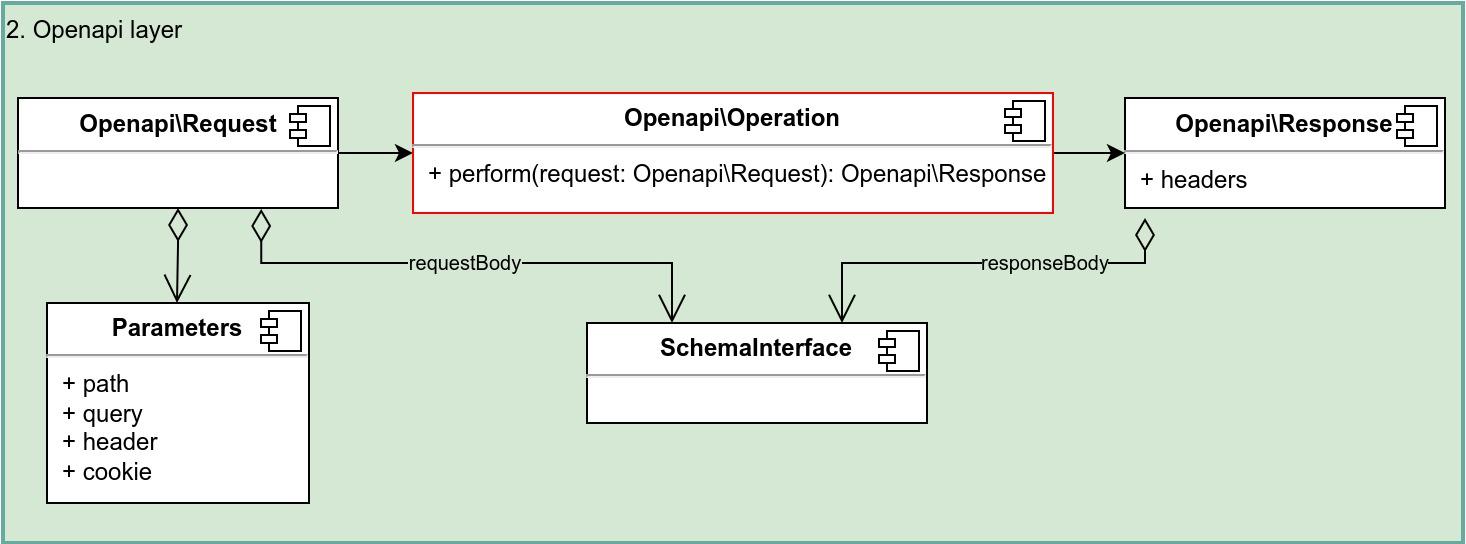
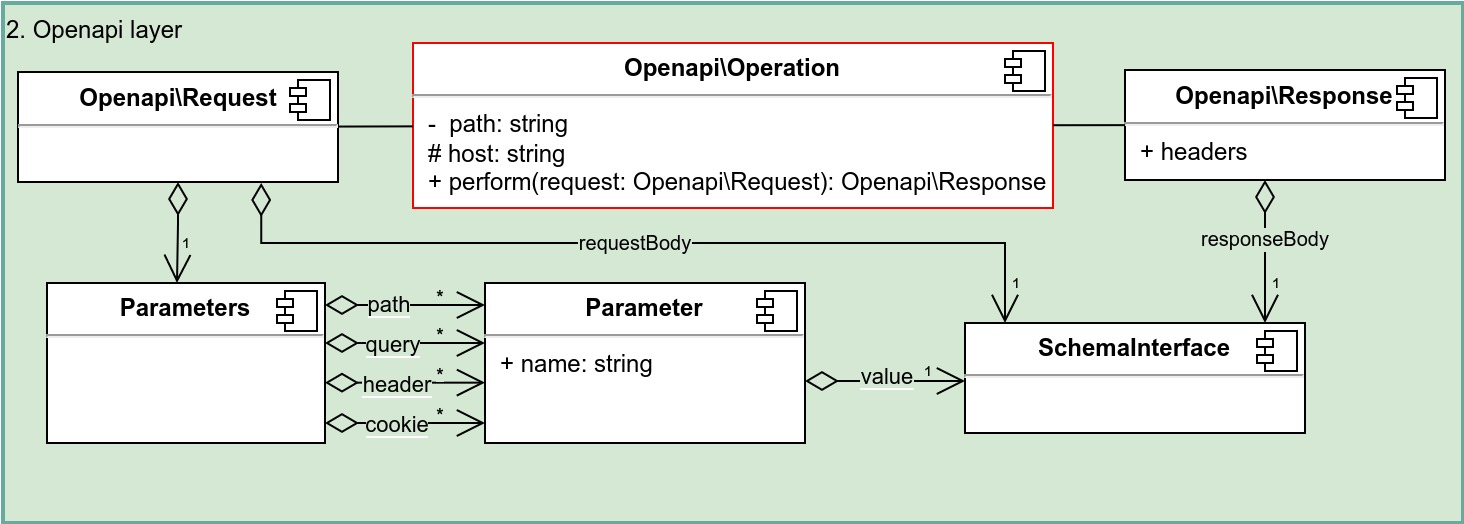
docs: host selection

Changed region(s): [[0.0, 0.0305, 1.0, 1.0], [0.0, 0.0305, 0.123, 0.0916], [0.8299, 0.4275, 0.9221, 0.4885]]

diff --git a/docs/questions.md b/docs/questions.md
@@ -62,7 +62,7 @@
       * [Конвертація `Result` -> `Openapi\Response`](#-result----openapiresponse)
     * [Взаємодія на одному рівні](#---)
   * [2.2 Вибір сервера ❌ ❌ ❌](#22-----)
-  * [2.3 Шлях до згенерованного коду ✅ ❌ ❌](#23-------)
+  * [2.3 Шлях до згенерованого коду ✅ ❌ ❌](#23-------)
   * [2.4 Конфігурація ❌ ❌ ❌](#24----)
     * [Збір конфігурації](#-)
     * [Конфігурація роутера](#-)
@@ -1955,12 +1955,11 @@ interface Handler
 
 ## 2.2 Вибір сервера ❌ ❌ ❌
 
-Вибір сервера, на який буде відправлятись запит буде здійснюватись за допомогою декораторів для `RequestSender` 
-інтерфейсу. Така схема дозволить реалізовувати логіку вибору сервера будь-якої складності. При цьому інтерфейс 
-`RequestSender` може існувати тільки на http рівні, я не бачу необхідності робити його аналог на кожному з рівнів. 
-А декоратори можуть вже знаходитись на будь-якому з рівнів. 
+Вибір сервера, на який буде відправлятись запит буде здійснюватись за допомогою декораторів для `Operation` 
+інтерфейсу (який згенерованний на [openapi рівні](#openapi-рівень)). Така схема дозволить реалізовувати логіку 
+вибору сервера будь-якої складності.
 
-![Request sender](./img/arch/request-sender.jpg)
+![Request sender](./img/arch/host-selection.jpg)
 
 На схемі представлено декілька можливих стандартних декораторів:
 - `ServerSelectorDecorator` - вибір одного сервера серед доступних в маніфесті
@@ -1997,7 +1996,7 @@ enum Server
 }
 ```
 
-Сам декоратор буде приймати цей enum у якості сервера, та буде отримувати baseUrl за допомогою методу `Server::url()`.
+Сам декоратор буде приймати цей enum у якості сервера, та буде отримувати host за допомогою методу `Server::url()`.
 Таким чином у нас буде можливість для тестів успадкуватись від цього маніфесту, та перевизначити `Server::url()`
 метод на наші локальні мок сервера.
 
@@ -2016,7 +2015,7 @@ interface ServerSelectorDecorator extends BaseDecorator
 }
 ```
 
-## 2.3 Шлях до згенерованного коду ✅ ❌ ❌
+## 2.3 Шлях до згенерованого коду ✅ ❌ ❌
 
 Замість src/{manifestName} код можна генерувати в src/Generated/OpenApi/{generator}/{manifestName}.
 
